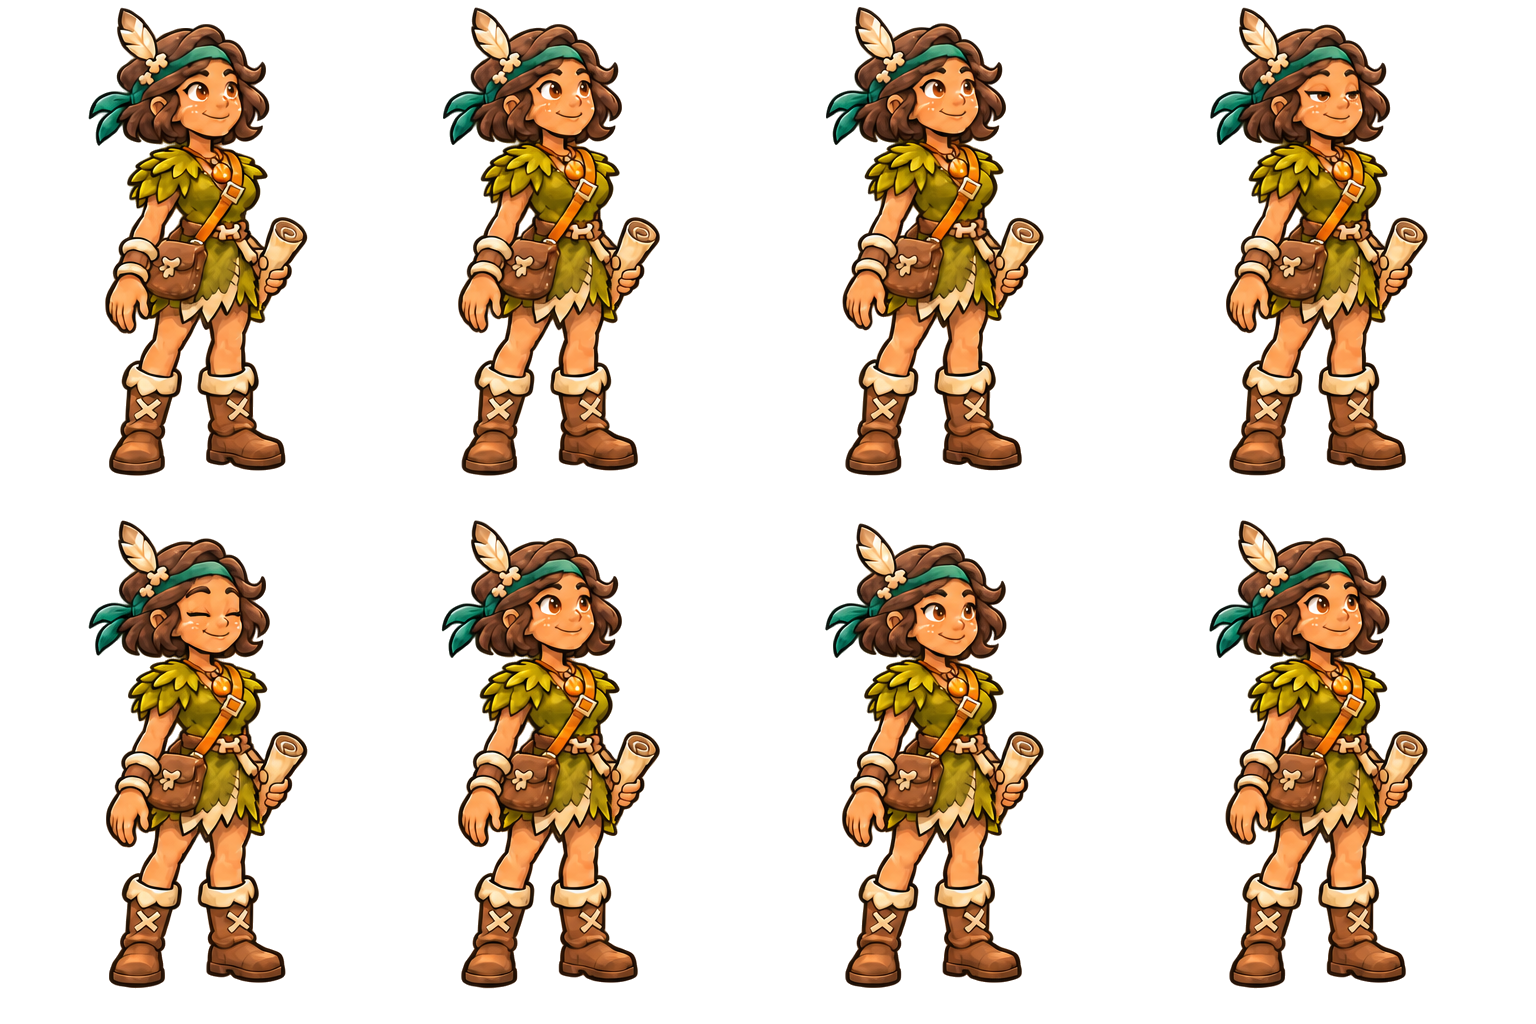
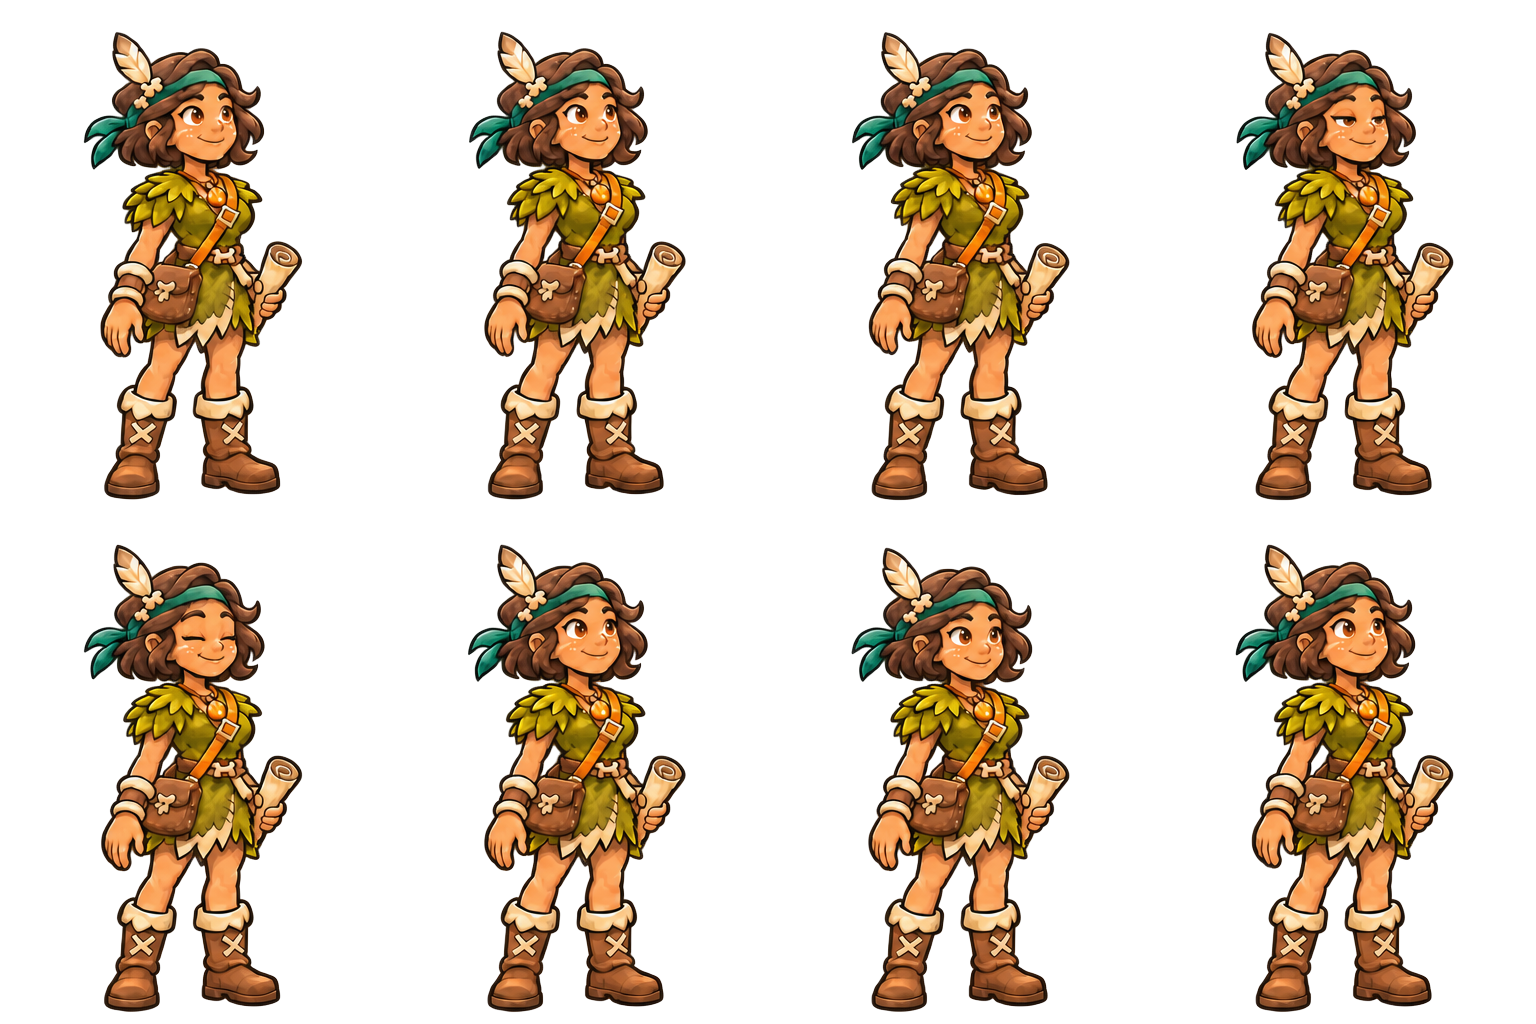
Missions scene: Tala stands still, wooden name plank like the other characters
Every Tala frame is lined up at her feet in the importer (the sheets drew
each pose at its own spot, so she swayed), and her name now sits on the
scene kit's wooden plank like Elder Numa's, Kora's and Ugo's.

diff --git a/tools/prepare_missions_ui.py b/tools/prepare_missions_ui.py
@@ -18,7 +18,9 @@ Sources in ../Assets (the user's Missions scene pack, 2026-11-24):
   greeting wave-1.png` (wave), `Tala's Thumbs-Up Celebration Sprite Sheet-9.png`
   (thumbs), `Scout's quiet mission presentation sprite sheet-3.png` (present):
   4x2 sheets of 384x512 cells, copied as @2x and halved for 1x (192x256).
-  Alpha below 24 is wiped (the sheets carry coloured pixels at alpha 0).
+  Alpha below 24 is wiped (the sheets carry coloured pixels at alpha 0), and
+  every frame is moved so her feet land on one spot (`align`), so she
+  doesn't sway between frames.
 - The amber reward bursts (-4, -7) aren't used: missions pay meat.
 
     uv run --no-project --with pillow python tools/prepare_missions_ui.py
@@ -58,6 +60,29 @@ def clean(img: Image.Image) -> Image.Image:
     return img
 
 
+CELL = (384, 512)
+FEET = (192, 500)   # where every frame's feet land (@2x cell pixels)
+
+
+def align(sheet: Image.Image) -> Image.Image:
+    """Each 4x2 cell drawn at its own spot: move every frame so its feet
+    (the centre of the bottom eighth of the figure, alpha > 128) land on
+    FEET, so Tala stands still instead of swaying between frames."""
+    out = Image.new("RGBA", sheet.size, (0, 0, 0, 0))
+    for i in range(8):
+        cx, cy = (i % 4) * CELL[0], (i // 4) * CELL[1]
+        cell = sheet.crop((cx, cy, cx + CELL[0], cy + CELL[1]))
+        a = cell.getchannel("A").point(lambda v: 255 if v > 128 else 0)
+        box = a.getbbox()
+        if box is None:
+            continue
+        foot_top = box[3] - max(4, (box[3] - box[1]) // 8)
+        feet = a.crop((0, foot_top, CELL[0], box[3])).getbbox()
+        fx = (feet[0] + feet[2]) / 2.0 if feet else (box[0] + box[2]) / 2.0
+        out.paste(cell, (cx + round(FEET[0] - fx), cy + FEET[1] - box[3]), cell)
+    return out
+
+
 def main() -> None:
     OUT.mkdir(parents=True, exist_ok=True)
     atlas = Image.open(SRC / ATLAS).convert("RGBA")
@@ -77,7 +102,7 @@ def main() -> None:
         if not p.exists():
             print("missing:", f)
             continue
-        save(clean(Image.open(p).convert("RGBA")), f"tala_{clip}")
+        save(align(clean(Image.open(p).convert("RGBA"))), f"tala_{clip}")
     print("wrote", len(list(OUT.glob("*@2x.png"))), "pieces to", OUT)
 
 

diff --git a/docs/systems/goals.md b/docs/systems/goals.md
@@ -69,7 +69,7 @@ Examples: Marathon 2000 / 4000 / 7000 m, Untouchable 800 / 2000 / 4000 m, Explor
 - All three done add the all-done bonus + the streak meat per streak day (`complete_day`, kept in `bonus_due`), paid with the **last claim**; a missed day restarts the streak.
 - A new day or week pays whatever was left unclaimed (`Missions.unclaimed_meat`, `main._refresh_missions`, with a news line), so nothing earned is lost. Old saves count their finished missions as claimed (they were paid on completion).
 - **Its own button and scene**: the main menu's **Missions** button (`Hud.missions_button`, under the Dinosaur Camp; the user's square art, key O) opens the **Missions scene** (`scripts/missions_view.gd`, `MissionsView`, a full screen like the Camp, on the Camp's painted backdrop; the user's art from `tools/prepare_missions_ui.py`):
-  - **Tala the Trail Scout** on the left (idle loop; she waves when it opens, gives a thumbs-up when every mission of the tab is done, talks when tapped), her speech bubble with a line (`LINES`: opening, some done, all done, weekly) and her nameplate.
+  - **Tala the Trail Scout** on the left (idle loop; she waves when it opens, gives a thumbs-up when every mission of the tab is done, talks when tapped), her speech bubble with a line (`LINES`: opening, some done, all done, weekly), and her name on the scene kit's wooden plank (`SceneKit.badge`, like Elder Numa's, Kora's and Ugo's) with "Trail Scout" under it. Her frames are lined up at the feet by the importer so she doesn't sway.
   - A wooden **board** on the right with **DAILY** and **WEEKLY** tabs, a subtitle ("Fresh goals every day · 3-day streak" / "New goals every Monday") and a footer about the all-done bonus.
   - One parchment **card** per mission: an icon (`ICONS` by mission: meat, amber, a chest, a dinosaur portrait), a name (`TITLES`, "Stock the Camp"), what to do (`Missions.text`), a progress bar ("12 / 15", "180 / 300 m"), the meat it pays, and its state: a glowing **CLAIM** button (the atlas's sparkling green button, pulsing) while its meat waits, **DONE** with a tick once claimed, or **IN PROGRESS**. Claiming makes Tala give a thumbs-up and say the meat.
   - The MISSIONS title banner on top and a Back button (or Esc / O) back to the main menu. While it's open, taps go to the scene (`main._overlay_open`).
